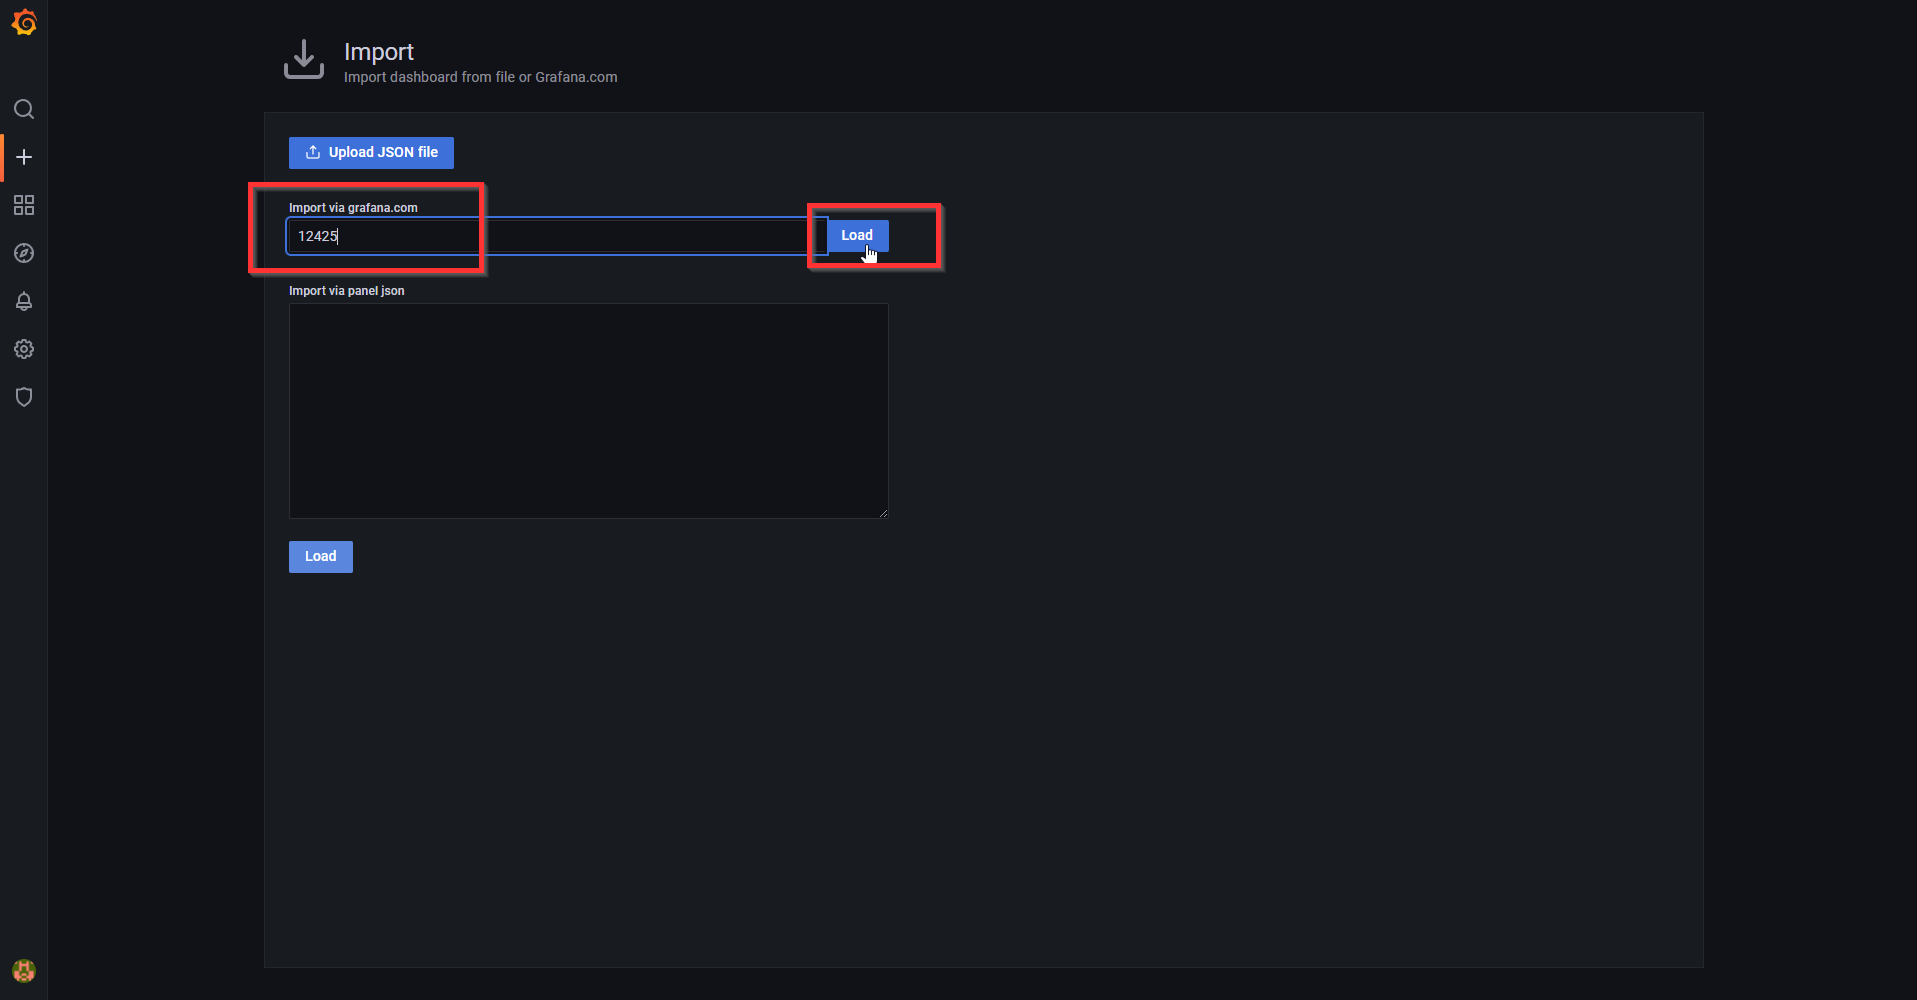
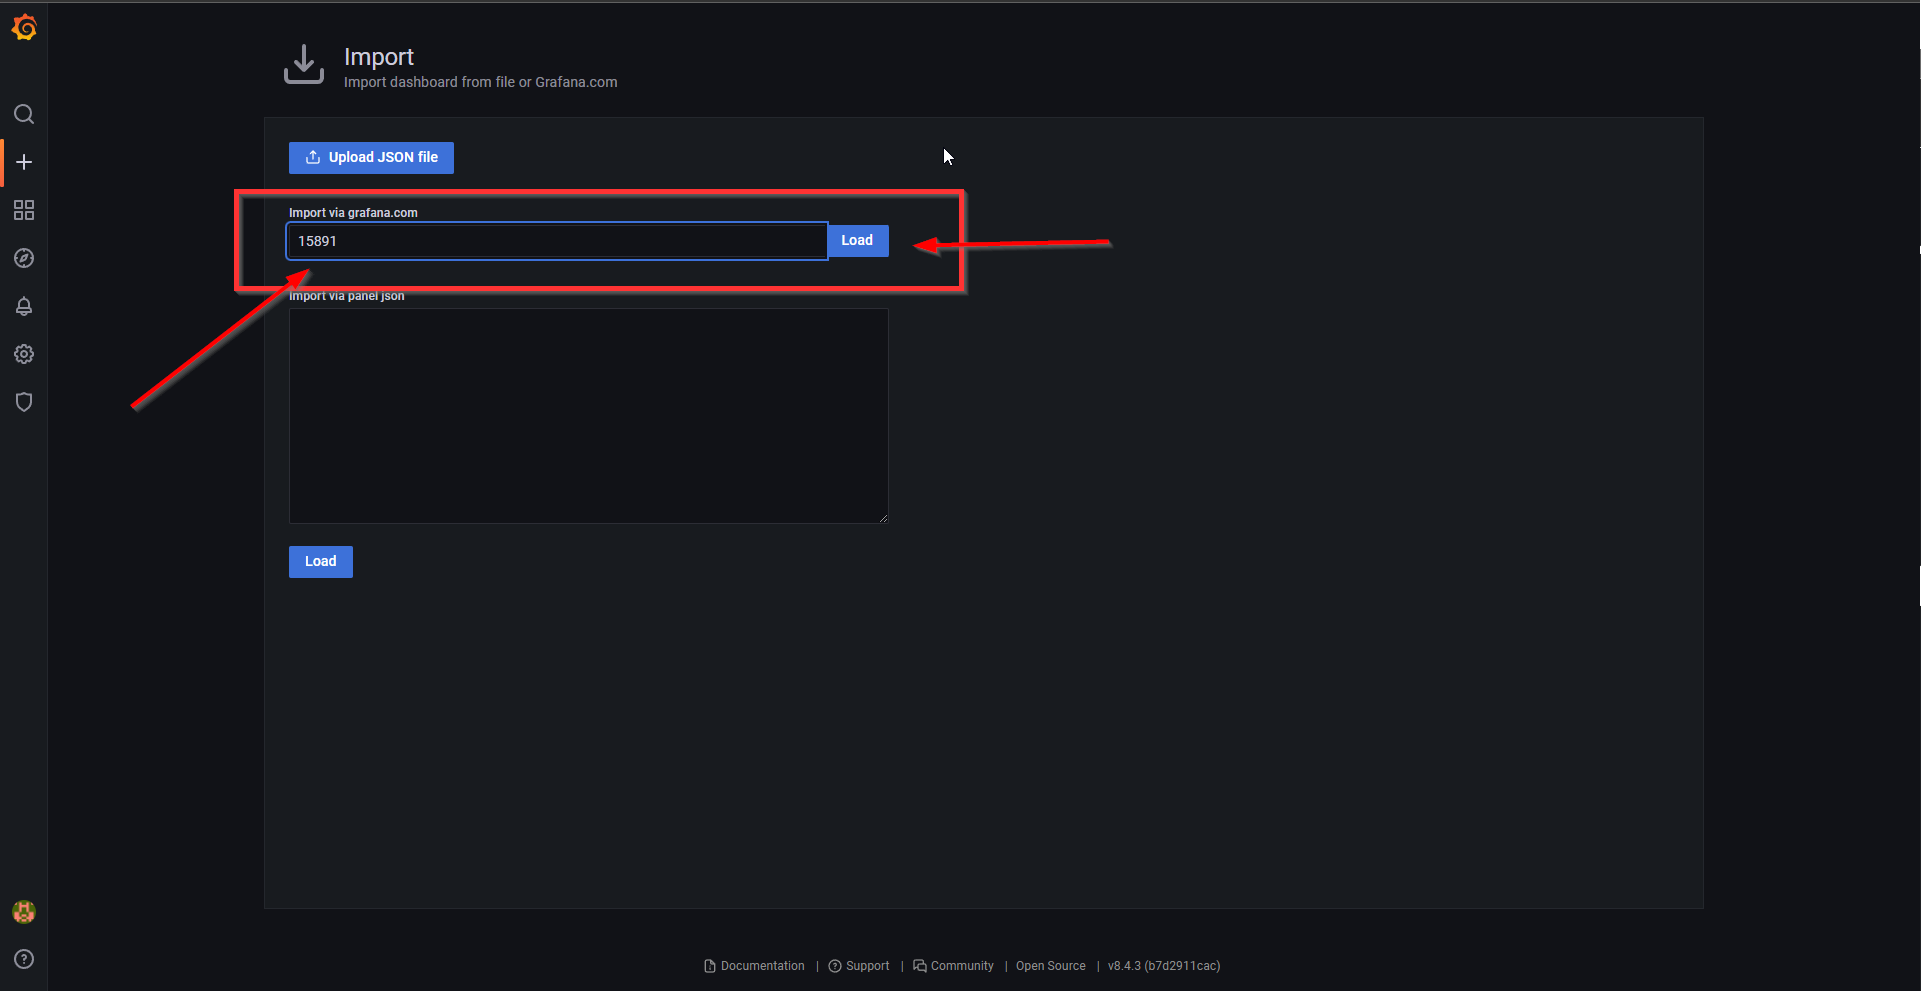
added node_exporter & alert_manager to monitoring guide

diff --git a/docs/validator-guides/node-monitoring.md b/docs/validator-guides/node-monitoring.md
@@ -1,17 +1,15 @@
 # <b>HOW TO VISUALIZE NODE METRICS</b>
 ---
 
+![img](assets/dashboard.png#center)
+
 This guide will teach you how to use Prometheus and Grafana to implement a basic validator monitoring. 
 We can do this because every SwapDEX node exposes metrics such as the chain height, number of connected peers or the amount of memory used on a Prometheus metric endpoint. 
 
 To visualize these metrics we will use <a href="https://prometheus.io/" target="_blank"> Prometheus</a> to collect the data and <a href="https://grafana.com/" target="_blank"> Grafana</a> to visualize them on a nice looking dashboard.
 
-We will implement the monitoring in the following three steps:
-1. Install Prometheus and Grafana
-2. Configure Prometheus to scrape your SwapDEX node
-3. Visualize Prometheus Metrics with Grafana
 
-## **Architecture**
+## **Example Monitoring Architecture**
 ---
 
 ```
@@ -127,7 +125,7 @@ Now we can safely delete the downloaded folder:
 cd .. && rm -rf prometheus*
 ```
 
-**Let's configure Prometheus**
+### **Configure Prometheus**
 
 Before Prometheus can be started, it needs some configuration. We will manage the configuration in a `.yml` file which we will now create:
 
@@ -185,7 +183,7 @@ And let's change the ownership of the config file to our Prometheus user:
 sudo chown prometheus:prometheus /etc/prometheus/prometheus.yml
 ```
 
-**Let's Start Prometheus**
+### **Start Prometheus**
 
 Before we start Prometheus let's make sure that our firewall is not blocking port 9090
 ```
@@ -278,8 +276,269 @@ sudo systemctl daemon-reload && systemctl enable prometheus && systemctl start p
 !!! success
     Prometheus should be running now, and we should be able to access its front-end again end by re-visiting `{==IP_ADDRESS==}:9090/`.
 
+## **Step 2 - Install Node Exporter**
 
-### **Let's install Grafana**
+Now we will install Prometheus's Node Exporter module which exposes hardware metrics like CPU load, RAM and storage usage.
+
+Create Node Exporter User
+```
+sudo useradd --no-create-home --shell /usr/sbin/nologin node_exporter
+```
+Create the directories required to store the configuration and executable files:
+
+```
+sudo mkdir /etc/node_exporter
+sudo mkdir /var/lib/node_exporter
+```
+
+Change the ownership of those files to our `Node_Exporter` user
+
+```
+sudo chown -R node_exporter:node_exporter /etc/node_exporter
+sudo chown -R prometheus:node_exporter /var/lib/node_exporter
+```
+
+
+Install the latest version of Node Exporter from <a href="https://prometheus.io/download/#node_exporter" target="_blank"> downloads</a> page:
+
+```
+wget https://github.com/prometheus/node_exporter/releases/download/v1.3.1/node_exporter-1.3.1.linux-amd64.tar.gz
+tar xvfz node_exporter-*.*-amd64.tar.gz
+```
+
+Change directory into the downloaded file: 
+```
+cd node_exporter-*.*-amd64
+```
+
+Let's copy the binary `node_exporter` to our local binary folder `/usr/local/bin/`
+
+```
+sudo cp ./node_exporter /usr/local/bin/
+```
+
+Let's also change the ownership of the binary file:
+```
+sudo chown node_exporter:node_exporter /usr/local/bin/node_exporter
+```
+
+Now we can delete the downloaded node_exporter folder:
+```
+cd .. && rm -rf node_exporter*
+```
+
+Since the `Node Exporter` will run on port 9100 we need to allow that port on our firewall
+
+```
+ufw allow 9100
+```
+
+Let's test-run the node_exporter:
+
+```
+cd /usr/local/bin
+./node_exporter
+```
+
+We can now observe the exposed metrics in our browser at:
+
+```
+http://{==SERVER_IP_ADDRESS==}:9100/metrics
+
+```
+
+After we confirmed that the `node_exporter` is running we can exit the process on our VPS by hitting ++ctrl+c++
+
+Now that everything is running we want to automatically start the `node_exporter` during the boot process, so we have to create a new systemd configuration file with the following config:
+
+```
+sudo nano /etc/systemd/system/node_exporter.service
+```
+
+```
+[Unit]
+  Description=Node Exporter Monitoring
+  Wants=network-online.target
+  After=network-online.target
+
+[Service]
+  User=node_exporter
+  Group=node_exporter
+  Type=simple
+  ExecStart=/usr/local/bin/node_exporter
+  ExecReload=/bin/kill -HUP $MAINPID
+
+[Install]
+  WantedBy=multi-user.target
+```
+
+After we saved the file, we want to reload `systemd` and enable the service so that it will be loaded automatically during the operating system's startup.
+
+```
+sudo systemctl daemon-reload && systemctl enable node_exporter && systemctl start node_exporter
+```
+
+Finally, we must tell our Prometheus server to scrape the metrics exposed by the `node_exporter`.
+We do this by configuring the `prometheus.yml` file we created earlier.
+
+```
+sudo nano /etc/prometheus/prometheus.yml
+```
+
+```
+global:
+  scrape_interval: 15s
+  evaluation_interval: 15s
+
+rule_files:
+  # - "first.rules"
+  # - "second.rules"
+
+scrape_configs:
+  - job_name: "prometheus"
+    scrape_interval: 5s
+    static_configs:
+      - targets: ["localhost:9090"]
+  - job_name: "SwapDEX_Node"
+    scrape_interval: 5s
+    static_configs:
+      - targets: ["localhost:9615"]
+  - job_name: "Node_Exporter"
+    scrape_interval: 5s
+    static_configs:
+      - targets: ["localhost:9100"]
+```
+
+Now we need to reboot the VPS:
+
+```
+reboot
+```
+
+After the reboot we can revisit our Prometheus server at:
+
+```
+http://{==SERVER_IP_ADDRESS==}/targets
+```
+You should see the following in your browser:
+
+![img](assets/node_exporter_01.png#center)
+
+
+## **Step 3 - Install Alert Manager**
+
+In this section, let's configure the Alertmanager that helps to predict the potential problems or notify you of the current problem on your server. Alerts can be sent in Slack, Email, Matrix, or others. In this guide, we will show you how to configure the email notifications using Gmail if your node goes down.
+
+First, download the latest binary of AlertManager and unzip it by running the command below:
+
+```
+wget https://github.com/prometheus/alertmanager/releases/download/v0.23.0/alertmanager-0.23.0.linux-amd64.tar.gz
+tar xvfz alertmanager-*.*-amd64.tar.gz
+mv alertmanager-*.*-amd64/alertmanager /usr/local/bin/
+```
+### **Gmail Setup**
+
+To allow AlertManager to send an email to you, you will need to generate something called an app password in your Gmail account. For details, click <a href="https://support.google.com/accounts/answer/185833?hl=en" target="_blank"> Prometheus</a> to follow the whole setup.
+
+!!! hint
+    Copy or save your app password! We need it soon.
+
+### **Alert Manager Configuration**
+
+We will now create a new folder for the alertmanager's config file:
+
+```
+mkdir /etc/alertmanager
+```
+
+Now need to create a new configuration file called `alertmanager.yml` under `/etc/alertmanager`
+
+```
+sudo nano /etc/alertmanager/alertmanager.yml
+```
+and specify the file as follows:
+
+```
+global:
+ resolve_timeout: 1m
+
+route:
+ receiver: 'gmail-notifications'
+
+receivers:
+- name: 'gmail-notifications'
+  email_configs:
+  - to: {==YOUR_EMAIL==}
+    from: {==YOUR_EMAIL==}
+    smarthost: smtp.gmail.com:587
+    auth_username: {==YOUR_EMAIL==}
+    auth_identity: {==YOUR_EMAIL==}
+    auth_password: {==YOUR_APP_PASSWORD==}
+    send_resolved: true
+```
+
+!!! note
+    With the above configuration, alerts will be sent using the email you set above. Remember to change {==YOUR_EMAIL==} to your email and paste the app password you just saved earlier to the `YOUR_APP_PASSWORD`.
+
+Now we change the ownership to our Prometheus user:
+
+```
+sudo chown -R prometheus:prometheus /etc/alertmanager
+```
+Now let's open another port on our firewall for the alter manager:
+
+```
+ufw allow 9093
+```
+
+Next, we will create another `systemd` file to make sure that the alert manager will start everytime the server reboots:
+
+```
+sudo nano /etc/systemd/system/alertmanager.service
+```
+
+```
+[Unit]
+Description=AlertManager Server Service
+Wants=network-online.target
+After=network-online.target
+
+[Service]
+User=root
+Group=root
+Type=simple
+ExecStart=/usr/local/bin/alertmanager --config.file /etc/alertmanager/alertmanager.yml --web.external-url=http://{==SERVER_IP==}:9093 --cluster.advertise-address='0.0.0.0:9093'
+
+
+[Install]
+WantedBy=multi-user.target
+```
+!!! note
+    SERVER_IP - Change it to your host IP address.
+
+Finally, we can start the alert manager with the following command:
+```
+sudo systemctl daemon-reload && sudo systemctl enable alertmanager && sudo systemctl start alertmanager && sudo systemctl status alertmanager
+```
+
+!!! note
+    You should see: Active: active (running)
+```
+Created symlink /etc/systemd/system/multi-user.target.wants/alertmanager.service → /etc/systemd/system/alertmanager.service.
+● alertmanager.service - AlertManager Server Service
+     Loaded: loaded (/etc/systemd/system/alertmanager.service; enabled; vendor preset: enabled)
+     {==Active: active (running)==} since Sun 2022-03-13 22:17:12 UTC; 12ms ago
+   Main PID: 2484 (alertmanager)
+      Tasks: 4 (limit: 9457)
+     Memory: 948.0K
+        CPU: 10ms
+```
+
+!!! tip
+    For now that's it, but we will need to install a Grafana Plug-In later in this process but for now let's first install Grafana.
+    Hang on buddy we are done soon :rocket:
+
+## **Step 4 - Install Grafana**
 
 To visualize those metrics Prometheus collects we use Grafana. We run the following commands to install it:
 
@@ -301,7 +560,19 @@ sudo systemctl start grafana-server
 ufw allow 3000
 ```
 
-Now we can access it by going to `http://`{==SERVER_IP_ADDRESS==}:3000/login`. The default user and password is admin/admin.
+Before we start to wire everything together, let's take care of the aforementioned alert manager plugin. It will help you to monitor the alert information. To install it, execute the command below:
+
+```
+sudo grafana-cli plugins install camptocamp-prometheus-alertmanager-datasource
+```
+
+and restart Grafana:
+
+```
+sudo systemctl restart grafana-server
+```
+
+Now we can access Grafana by going to `http://`{==SERVER_IP_ADDRESS==}:3000/login`. The default user and password is admin/admin.
 
 !!! note
     If you want to change the port on which Grafana runs (3000 is a popular port), edit the file `/usr/share/grafana/conf/defaults.ini` with a command like `sudo vim /usr/share/grafana/conf/defaults.ini` and change the `http_port` value to something else. Then restart grafana with `sudo systemctl restart grafana-server`.
@@ -310,11 +581,11 @@ Now we can access it by going to `http://`{==SERVER_IP_ADDRESS==}:3000/login`. T
 ![img](assets/grafana_01.png#center)
 
 !!! success
-    We successfully installed and configured Prometheus and Grafana at this point :heart:
+    We successfully installed and configured Prometheus, Node Exporter, Alert Manager and Grafana at this point :heart:
 
-### **Let's visualize the node metrics**
+### **Let's us wire it all together**
 
-Now that everything is running we need to connect our Prometheus datasource to our Grafana server. We do this in the UI of Grafana by going to `Data Sources`
+Now that everything is running we need to connect our Prometheus and alert manager data source to our Grafana server. We do this in the UI of Grafana by going to `Data Sources`
 
 ![img](assets/grafana_02.png#center)
 
@@ -331,6 +602,12 @@ The only thing we need to input is the URL that is https://localhost:9090 and th
 !!! success
     We connected our Prometheus database with Grafana!
 
+Now let's wire the alertmanager in a similar fashion:
+
+![img](assets/grafana_10.png#center)
+
+![img](assets/grafana_11.png#center)
+
 ### **Let's use a Grafana Template Dashboard**
 
 For this guide we will use a standard Dashboard developed by substrate to monitor our node, but you can at all times customize or create your own Dashboards. 
@@ -339,4 +616,15 @@ For this guide we will use a standard Dashboard developed by substrate to monito
 
 ![img](assets/grafana_08.png#center)
 
+!!! tip
+    You can get the import code here: <a href="https://grafana.com/grafana/dashboards/15891" target="_blank"> Grafana Labs</a>.  May also consider to give it a review :smile:
+
 ![img](assets/grafana_09.png#center)
+
+!!! success
+    There you go mate :fire: :rocket:
+
+
+<br></br>
+
+<p align=right> Written by Petar </p>
